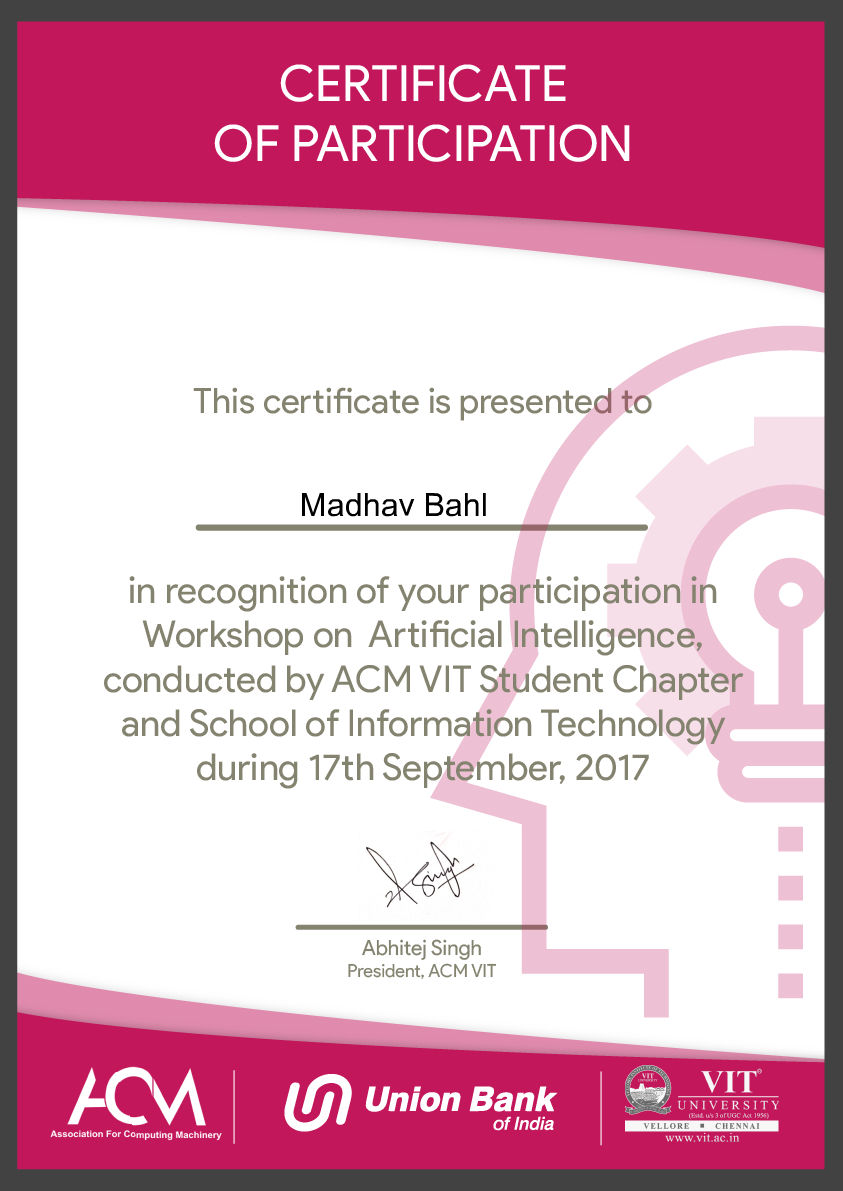
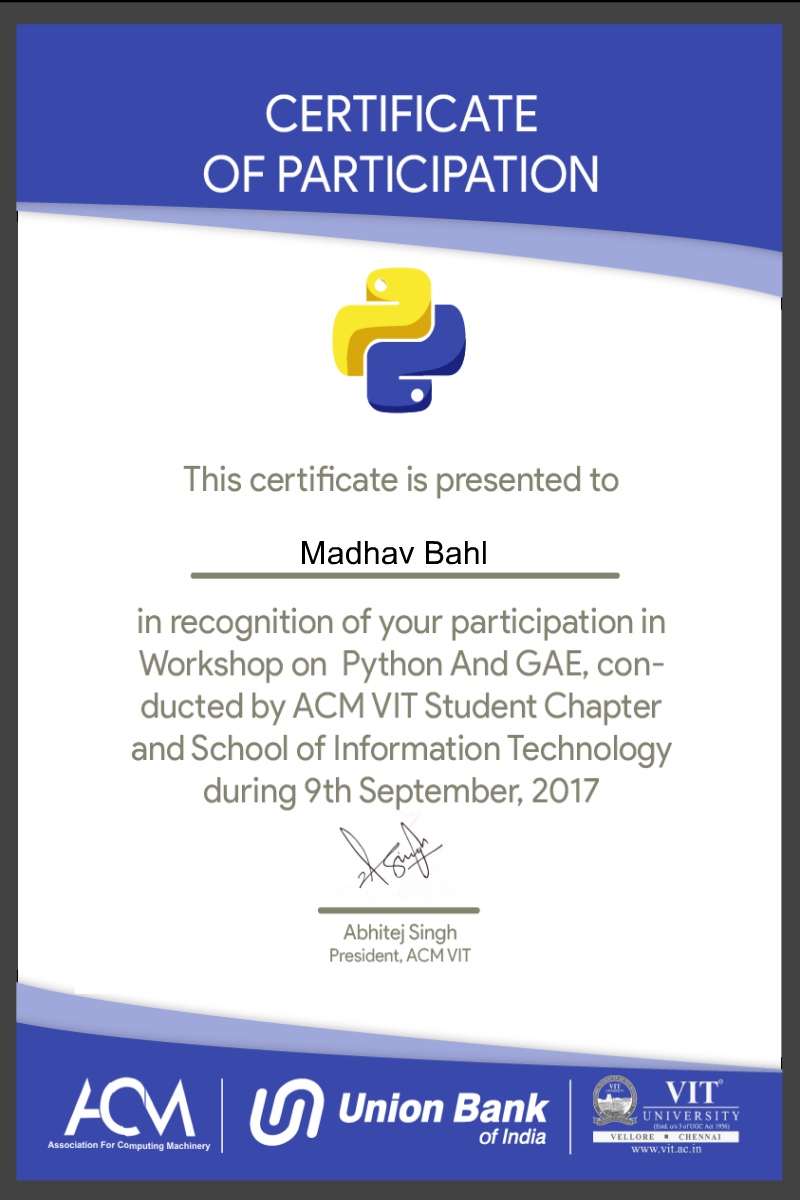
Add resize.js

diff --git a/index.js b/index.js
@@ -1,12 +1,12 @@
 var Jimp = require("jimp");
 const fs = require('fs');
 
-var x = 310;
-var lgX = 283;
-var xlX = 250;
-var xxlX = 235;
-var smX = 355;
-var y = 487;
+var x = 279;
+var lgX = 265;
+var xlX = 220;
+var xxlX = 205;
+var smX = 375;
+var y = 535;
 
 fs.readFile('participants.json',(err,data) => {
   if(err) return console.log(err);
@@ -23,32 +23,32 @@ fs.readFile('participants.json',(err,data) => {
       printObj.push(dataObj[i].Name.split(" ")[0]);
       console.log(printObj[i]);
     }
-    Jimp.read("base.png", function (err, image) {
+    Jimp.read("base.jpg", function (err, image) {
       Jimp.loadFont(Jimp.FONT_SANS_32_BLACK).then(function (font) { // load font from .fnt file
         if(printObj[i].length < 14 && printObj[i].length > 6){
           console.log(printObj[i].length);
           let printS = printObj[i].toString().toUpperCase();
-          image.print(font, x, y, printS).write("./certificates/op"+ i + ".jpg");        // print a message on an image
+          image.print(font, x, y, printS).write("./GAEcertificates/op"+ i + ".jpg");        // print a message on an image
         }
         else if(printObj[i].length >= 20){
           console.log(printObj[i].length);
           let printS = printObj[i].toString().toUpperCase();
-          image.print(font, xxlX , y, printS).write("./certificates/op"+ i + ".jpg");
+          image.print(font, xxlX , y, printS).write("./GAEcertificates/op"+ i + ".jpg");
         }
         else if(printObj[i].length >= 16 && printObj[i].length < 20){
           console.log(printObj[i].length);
           let printS = printObj[i].toString().toUpperCase();
-          image.print(font, xlX , y, printS).write("./certificates/op"+ i + ".jpg");
+          image.print(font, xlX , y, printS).write("./GAEcertificates/op"+ i + ".jpg");
         }
         else if(printObj[i].length >= 14 && printObj[i].length < 16){
           console.log(printObj[i].length);
           let printS = printObj[i].toString().toUpperCase();
-          image.print(font, lgX , y, printS).write("./certificates/op"+ i + ".jpg");
+          image.print(font, lgX , y, printS).write("./GAEcertificates/op"+ i + ".jpg");
         }
         else if(printObj[i].length <= 6){
           console.log(printObj[i].length);
           let printS = printObj[i].toString().toUpperCase();
-          image.print(font, smX , y, printS).write("./certificates/op"+ i + ".jpg");
+          image.print(font, smX , y, printS).write("./GAEcertificates/op"+ i + ".jpg");
         }
 
       });

diff --git a/playground/testGM.js b/playground/testGM.js
@@ -24,9 +24,9 @@ var Jimp = require("jimp");
 
 var str = 'Madhav Bahl';
 var x = 300;
-var y = 487;
+var y = 535;
 
-Jimp.read("./playground/ai.png", function (err, image) {
+Jimp.read("./playground/base.jpg", function (err, image) {
   Jimp.loadFont(Jimp.FONT_SANS_32_BLACK).then(function (font) { // load font from .fnt file
       image.print(font, x, y, str).write("./playground/aiOut.jpg");        // print a message on an image
   });

diff --git a/resize.js b/resize.js
@@ -1,0 +1,8 @@
+var Jimp = require("jimp");
+const fs = require('fs');
+
+Jimp.read("ENTER_YOUR_IMAGE_TO_RESIZE.png", function (err, lenna) {
+    if (err) throw err;
+    lenna.resize(800, 1200)            // resize
+         .write("base.jpg"); // save
+});

diff --git a/email.js b/email.js
@@ -4,7 +4,7 @@ var fs = require('fs');
 var transporter = nodemailer.createTransport({
   service: 'gmail',
   auth: {
-    user: 'out_____vit@gmail.com',
+    user: 'outreach.acmvit@gmail.com',
     pass: '*********'
   }
 });

diff --git a/README.md b/README.md
@@ -19,12 +19,13 @@ Basic info
 How To Use?
 
 1. Install the required node modules using " npm install "
-2. Keep the certificate template as "base.png" (preferably 1200x800) and participants list as participants.json with Name and email fields in the root directory.
+2. Keep the certificate template as "base.png" (preferably, 800x1200) and participants list as participants.json with Name and email fields in the root directory.
+
+// ======= If not (800x1200) run node resize.js ======= //
+
 3. Run index script using >> node index.js
 4. The certificates will be generated in /certificates/
 5. Host the certificates on a shared hosting to get url
 6. Replace the url with the url where the certificates are hosted
 7. Run email.js using >> node email.js and mail will be sent to the participants.
 8. DONE :)
-
-
